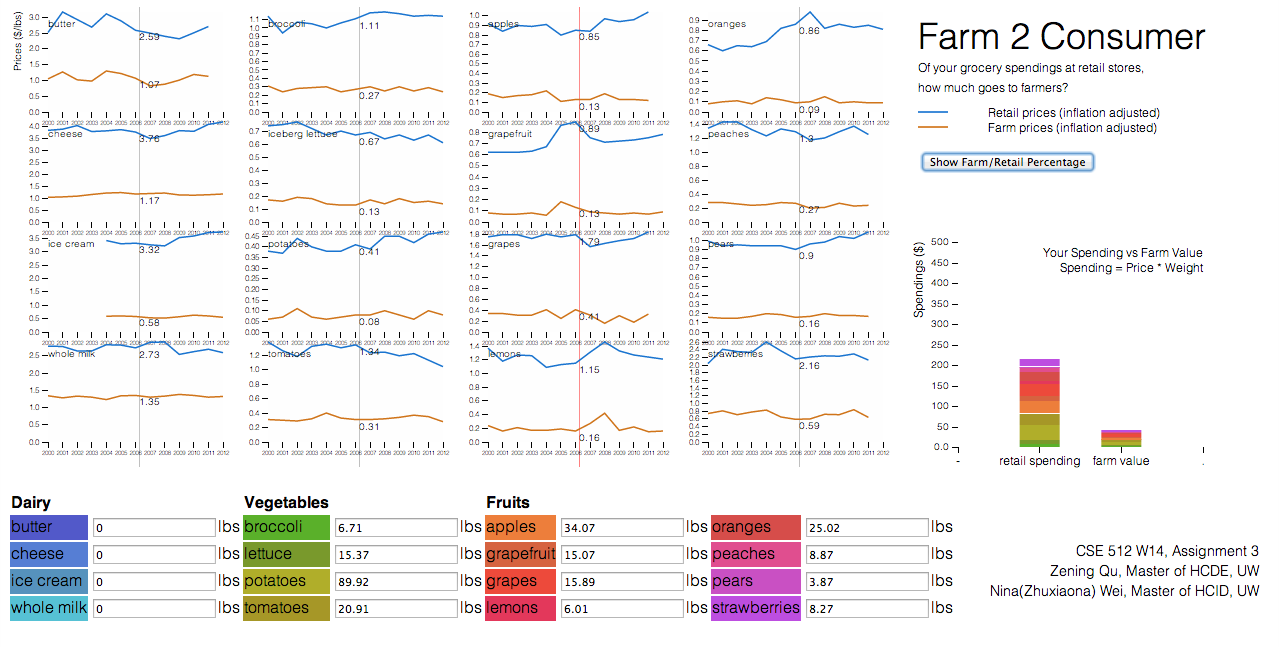
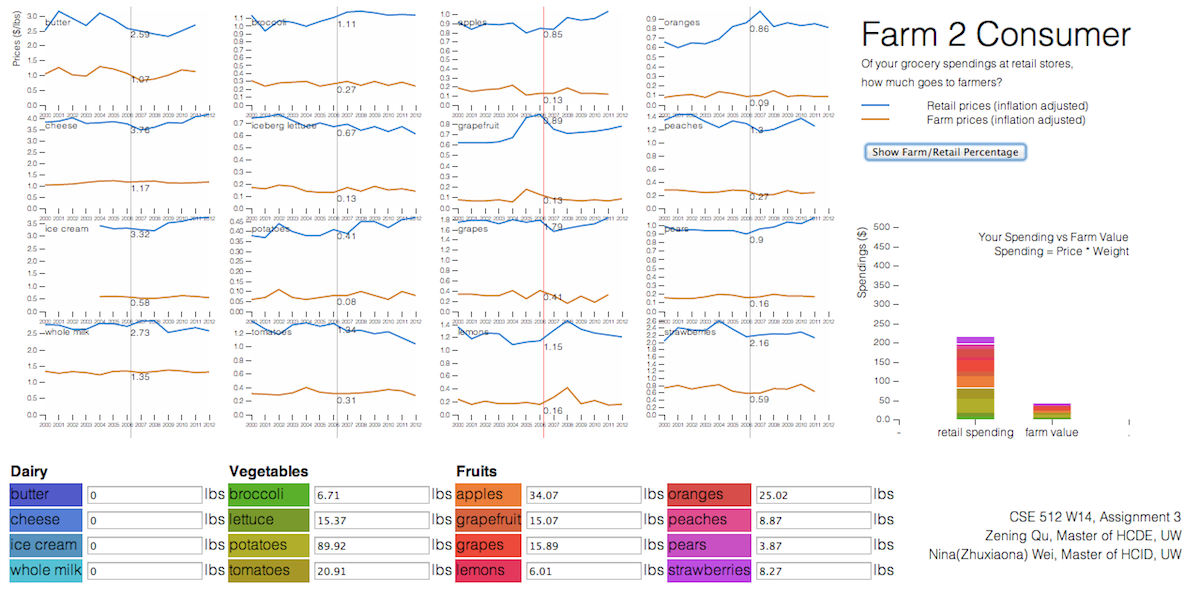
reduce image size

diff --git a/index.html b/index.html
@@ -15,8 +15,6 @@
     <link rel="stylesheet" href="css/bootstrap.min.css" type="text/css">
     <link rel="stylesheet" href="css/main.css" type="text/css">
     <link rel="stylesheet" href="css/flexslider.css" type="text/css">
-    <!--<link href="css/bootstrap.min.css" rel="stylesheet" type="text/css">
-    <link href="css/main.css" rel="stylesheet" type="text/css">-->
 
     <!-- Fonts -->
     <link href='http://fonts.googleapis.com/css?family=Roboto:400,300,300italic,400italic' rel='stylesheet' type='text/css'>
